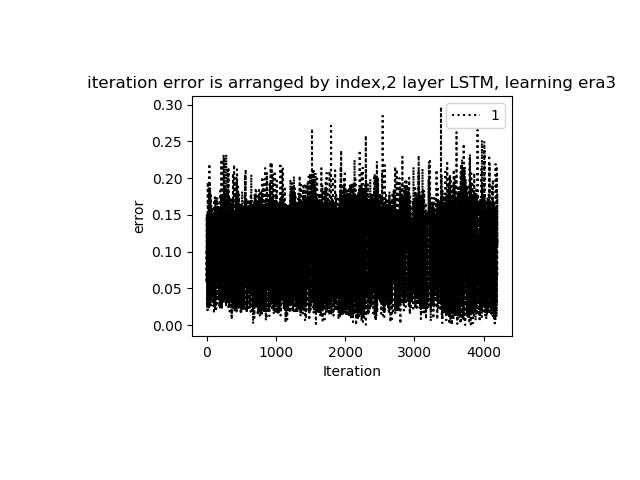
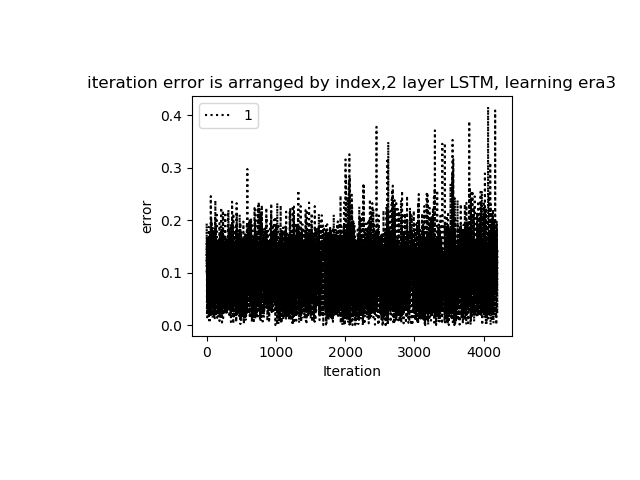
Two layer LSTM with saving error(targe-output) picture to file

diff --git a/train_LSTM_RNN .py b/train_LSTM_RNN .py
@@ -446,10 +446,10 @@ if __name__ == "__main__":
             if index==steps_to_print*int(index/steps_to_print):
                 plt.clf()
                 plt.axes([0.3, 0.3, 0.5, 0.5])
-                plt.title ('iteration error is arranged by index,2 layer LSTM, learning era'+str(era+1))
+                plt.title ('iteration loss is arranged by index,2 layer LSTM, learning era'+str(era+1))
                 plt.plot(error, 'k:', label='1')
                 plt.xlabel('Iteration')
-                plt.ylabel('error')
+                plt.ylabel('loss')
                 plt.legend()
                 basePath = os.path.dirname(os.path.abspath(__file__))
                 results_dir = basePath+ '/Models/LSTM/02_04_18_X-Time/'
